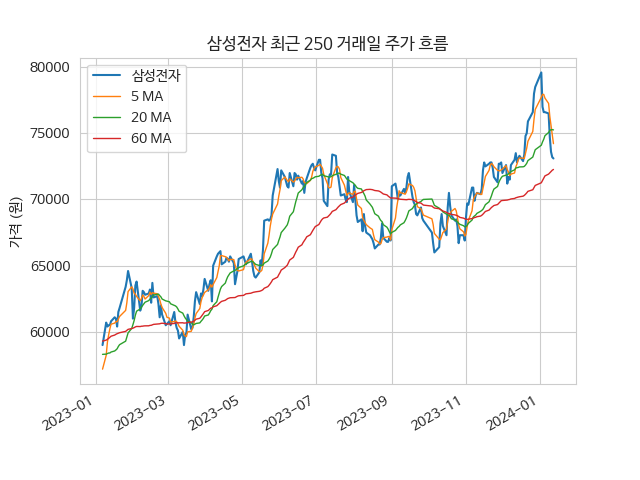
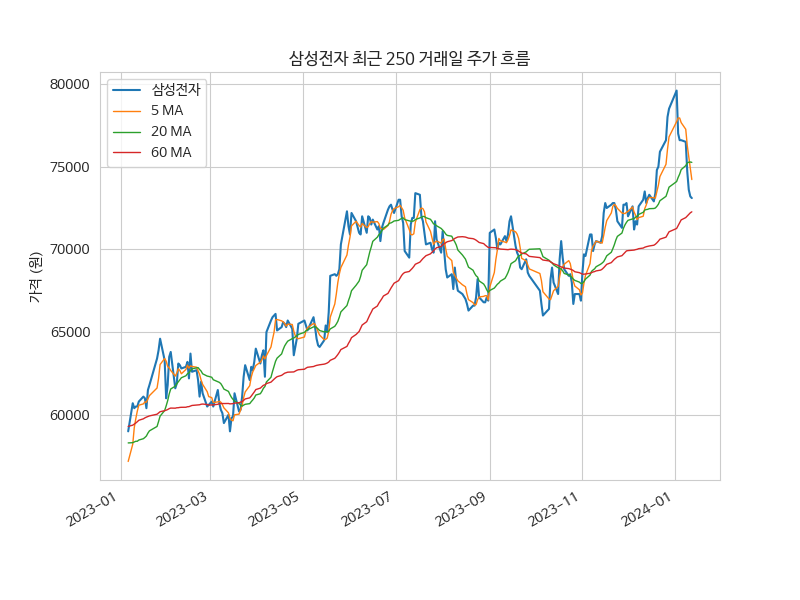
test-commit

diff --git a/_python/gen_mds.py b/_python/gen_mds.py
@@ -52,7 +52,7 @@ for ticker in tqdm(tickers):
   for w in window_l:
     df[f'MA {w}'] = df.Close.rolling(w).mean()
 
-  #plt.figure(figsize = (8, 6))
+  plt.figure(figsize = (8, 6))
   df = df[-_N_DAYS: ]
   df.Close.plot(label = name)
   for w in window_l:
